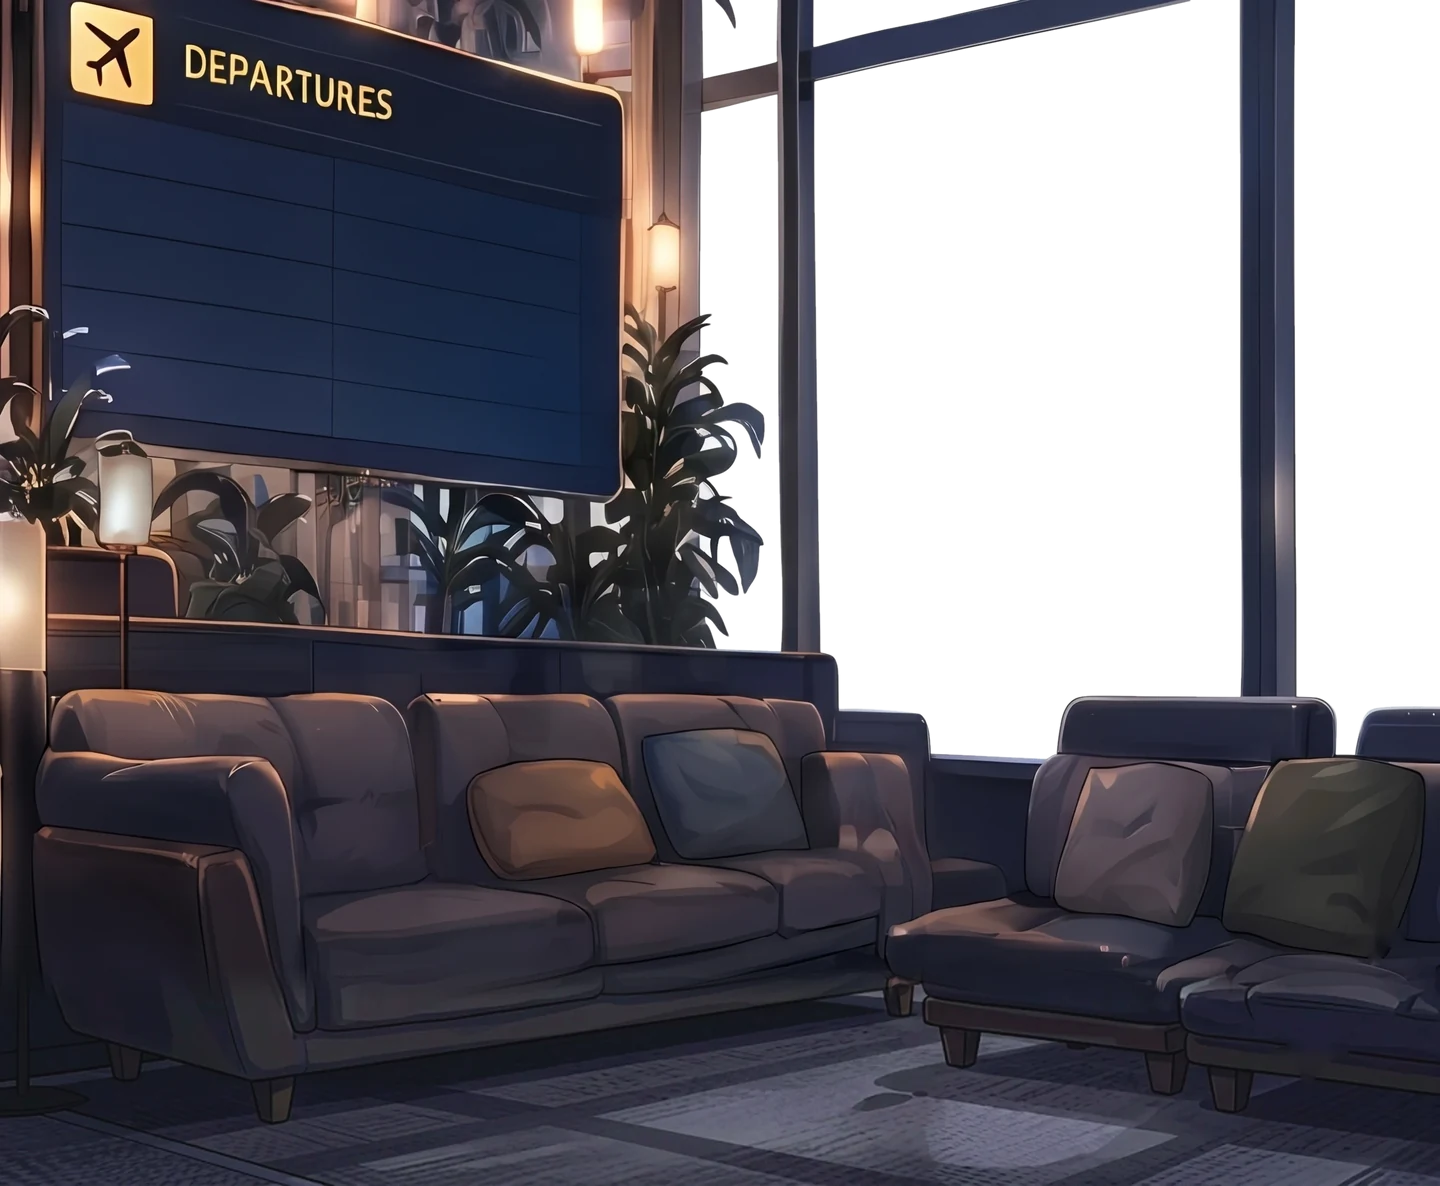
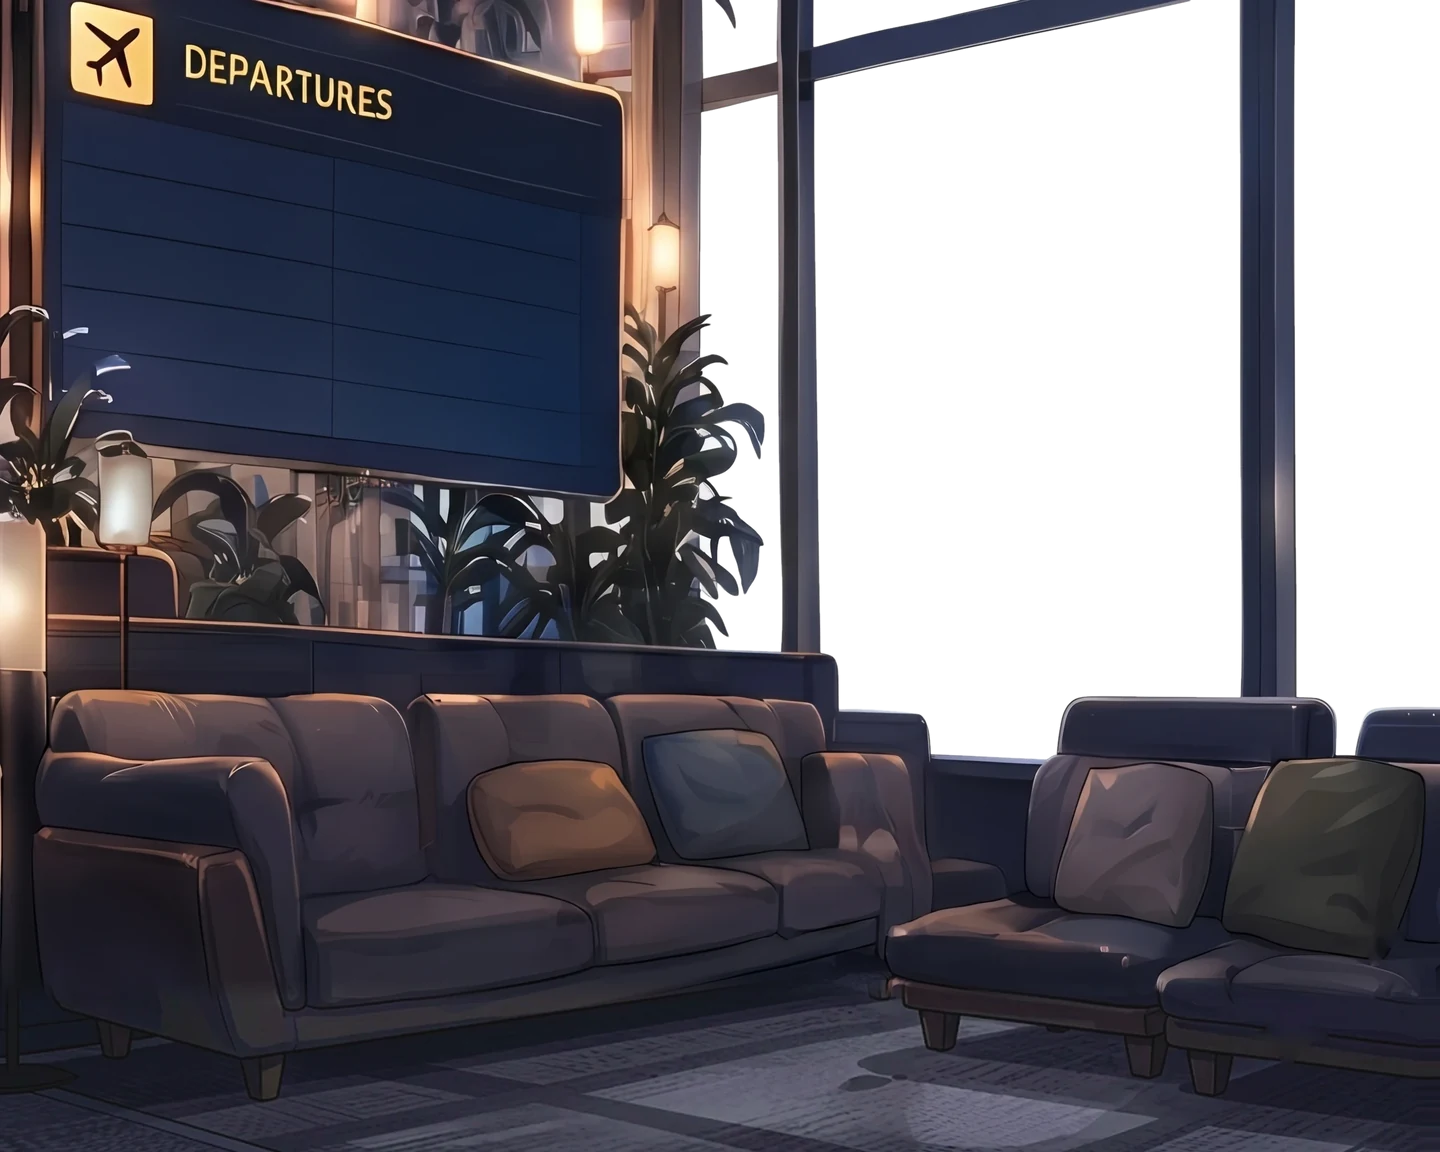
소파 아래 연장 다시: 긴 소파와 오른쪽 의자를 각각 통째로 맞춰 겹침·틈 제거, 카펫·소파 받침 선이 곧게
- 제미나이 그림은 오른쪽 의자가 더 아래·오른쪽에 그려져 있어 한 번에 붙이면 좌석 앞면이 두 겹으로 보이고 틈이 생겼음
- 원본 아래끝 선과 맞춰 긴 소파(18, 40px)와 의자(35, 30px)를 따로 옮기고, 둘 사이 바닥에서만 이어줌
- 세로줄마다 다르게 맞추면 선이 휘어서, 덩어리마다 한 값만 씀. 밤·노을·낮 세 장에 같은 값 적용
- 장면 높이 1152, 걷는 발 기준선 1118

Claude-Session: https://claude.ai/code/session_012VFbGgDXK9mz8qoLwWp9w1

diff --git a/ui/web/lobby.css b/ui/web/lobby.css
@@ -288,7 +288,7 @@ main{padding:0 12px calc(81px + env(safe-area-inset-bottom))}
 
 /* Lounge scene (docs/LOUNGE_SCENE_DESIGN.md). The canvas replaces the still illustration once its
    assets are ready; until then, and if anything fails, the still image shows. */
-.airport-scene{position:relative;width:calc(100% + 24px);margin:0 -12px 0;aspect-ratio:1440/1186;
+.airport-scene{position:relative;width:calc(100% + 24px);margin:0 -12px 0;aspect-ratio:1440/1152;
  overflow:hidden;background:var(--airport-surface-top,#112e39)}
 .lounge-fallback{position:absolute;inset:0;background:url("assets/t2-airport/lobby_hero_night.webp") center top/cover no-repeat}
 .lounge-canvas{position:absolute;inset:0;width:100%;height:100%;display:block;opacity:0;pointer-events:none}
@@ -312,7 +312,7 @@ main{padding:0 12px calc(81px + env(safe-area-inset-bottom))}
    (--lounge-floor, measured by lounge.js), picks up lamp or window light, and fades into the page.
    A faint woven texture keeps it from reading as a flat fill. */
 #lobby{
- --scene-bottom:calc(56px + min(100vw, 520px) * 1186 / 1440);
+ --scene-bottom:calc(56px + min(100vw, 520px) * 1152 / 1440);
  background:
   radial-gradient(70% 260px at 16% var(--scene-bottom), color-mix(in srgb, var(--lounge-glow) 26%, transparent), transparent 72%),
   radial-gradient(60% 300px at 92% calc(var(--scene-bottom) + 40px), color-mix(in srgb, var(--lounge-window) 22%, transparent), transparent 70%),

diff --git a/ui/web/lobby.html b/ui/web/lobby.html
@@ -6,7 +6,7 @@
 <meta name="theme-color" content="#0b1514">
 <title>t2 포커 · 토너먼트 로비</title>
 <link rel="icon" href="data:,">
-<link rel="stylesheet" href="lobby.css?v=20">
+<link rel="stylesheet" href="lobby.css?v=22">
 </head>
 <body>
 <div id="lobby">

diff --git a/art/tools/extend_floor.py b/art/tools/extend_floor.py
@@ -20,7 +20,48 @@ SRC = ART / 'sources/bg_floor_extension_gemini.webp'
 # Gemini px -> interior px: the same in both directions (width fills the picture, 2490 / 1024).
 # A smaller vertical scale doubled the right sofa's seat front.
 ANCHOR = 505        # Gemini row that meets the interior's bottom edge (where the seat fronts join the base)
-BLEND = 60
+BLEND = 40
+TPL = 90            # rows of the original's bottom matched against Gemini's picture
+STEP, WIN = 30, 180 # local alignment: one shift per 30 columns, matched on a 180-column window
+SEARCH_X, SEARCH_Y = 70, 50
+GAP, GAP_W = 1470, 140                       # floor between the long sofa and the chairs
+PIECES = [(0, 1420), (1520, 2490)]
+
+
+def local_shifts(o, gs, top):
+    """Per column: how far Gemini's floor must move so its sofa fronts line up with ours.
+    Gemini redrew the room a little differently (the right chairs sit lower and further right), so one
+    global placement doubles their seat fronts; this lines each part up where it meets the original."""
+    H, W = o.shape[:2]
+    def edges(a):
+        g = cv2.cvtColor(a.clip(0, 255).astype(np.uint8), cv2.COLOR_RGB2GRAY).astype(np.float32)
+        g = cv2.GaussianBlur(g, (3, 3), 0)
+        return np.hypot(cv2.Sobel(g, cv2.CV_32F, 1, 0), cv2.Sobel(g, cv2.CV_32F, 0, 1))
+    eo, eg = edges(o[H - TPL:H, :, :3]), edges(gs)
+    xs, dxs, dys, ok = [], [], [], []
+    for xc in range(WIN // 2, W - WIN // 2 + 1, STEP):
+        x0 = xc - WIN // 2
+        t = eo[:, x0:x0 + WIN]
+        gx0, gy0 = max(0, x0 - SEARCH_X), max(0, top - TPL - SEARCH_Y)
+        reg = eg[gy0:top + SEARCH_Y, gx0:min(W, x0 + WIN + SEARCH_X)]
+        r = cv2.matchTemplate(reg, t, cv2.TM_CCOEFF_NORMED)
+        _, mx, _, loc = cv2.minMaxLoc(r)
+        xs.append(xc); dxs.append(gx0 + loc[0] - x0); dys.append(gy0 + loc[1] - (top - TPL)); ok.append(mx)
+    xs, dxs, dys, ok = map(np.array, (xs, dxs, dys, ok))
+    # one rigid shift per piece of furniture (the long sofa, the chairs), so lines stay straight;
+    # they meet in the gap between the two, where there is only floor
+    dx, dy = np.zeros(W), np.zeros(W)
+    shifts = []
+    for lo, hi in PIECES:
+        sel = (xs >= lo) & (xs < hi) & (ok > 0.35)
+        if sel.sum() == 0: sel = (xs >= lo) & (xs < hi)
+        shifts.append((float(np.median(dxs[sel])), float(np.median(dys[sel]))))
+    x = np.arange(W)
+    t = np.clip((x - (GAP - GAP_W / 2)) / GAP_W, 0, 1); t = t * t * (3 - 2 * t)
+    dx = shifts[0][0] * (1 - t) + shifts[1][0] * t
+    dy = shifts[0][1] * (1 - t) + shifts[1][1] * t
+    print('  long sofa shift', shifts[0], ' chairs shift', shifts[1])
+    return dx, dy
 
 
 def lab(a):
@@ -34,7 +75,19 @@ def extend(variant):
     g = np.asarray(Image.open(SRC).convert('RGB')).astype(np.float32)
     scale = W / g.shape[1]
     gs = cv2.resize(g, (W, int(round(g.shape[0] * scale))), interpolation=cv2.INTER_CUBIC)
-    ext = gs[int(ANCHOR * scale) - BLEND:]
+    top = int(ANCHOR * scale)                    # Gemini row that meets our bottom edge, before alignment
+    dx, dy = SHIFT if SHIFT else local_shifts(o, gs, top)
+    rows = gs.shape[0] - top - 60 + BLEND        # same height for every lighting variant
+    yy, xx = np.mgrid[0:rows, 0:W].astype(np.float32)
+    # the alignment matters where the furniture meets ours; further down (open carpet) it fades to
+    # one even shift so the carpet's stripes stay straight
+    k = np.clip((yy - (BLEND + 170)) / 140.0, 0, 1); k = k * k * (3 - 2 * k)
+    dxk = dx[None] * (1 - k) + dx.mean() * k
+    dyk = dy[None] * (1 - k) + np.median(dy) * k
+    mapx = (xx + dxk).astype(np.float32)
+    mapy = (yy + (top - BLEND) + dyk).astype(np.float32)
+    ext = cv2.remap(gs, mapx, mapy, cv2.INTER_CUBIC, borderMode=cv2.BORDER_REPLICATE)
+    print('  shift x %.0f..%.0f  y %.0f..%.0f' % (dx.min(), dx.max(), dy.min(), dy.max()))
     ref, src = lab(o[H - 160:H, :, :3]), lab(ext[:160])
     e = lab(ext)
     for c in range(3):
@@ -51,6 +104,16 @@ def extend(variant):
     return W, out.shape[0]
 
 
+SHIFT = None
+
 if __name__ == '__main__':
+    # measure once, on the night picture (strongest lines), and use it for every variant so the
+    # three lighting layers stay aligned
+    SHIFT = None
+    o = np.asarray(Image.open(ART / 'lounge_bg/interior_night.webp').convert('RGB')).astype(np.float32)
+    g = np.asarray(Image.open(SRC).convert('RGB')).astype(np.float32)
+    sc = o.shape[1] / g.shape[1]
+    gs = cv2.resize(g, (o.shape[1], int(round(g.shape[0] * sc))), interpolation=cv2.INTER_CUBIC)
+    SHIFT = local_shifts(np.dstack([o, np.full(o.shape[:2], 255, np.float32)]), gs, int(ANCHOR * sc))
     for v in ('night', 'golden', 'day'):
         print(v, 'extended to %dx%d' % extend(v))

diff --git a/art/tools/build_lounge_scene.py b/art/tools/build_lounge_scene.py
@@ -20,7 +20,7 @@ from PIL import Image, ImageDraw, ImageFilter
 
 SRC = Path(__file__).resolve().parent.parent / 'lounge_bg'
 W, H0 = 1440, 1000                 # the original picture
-H = 1186                           # with the floor extension (2050 / 1728 * 1000)
+H = 1152                           # with the floor extension (1990 / 1728 * 1000)
 VARIANTS = [('night', -10), ('golden', 2), ('day', 14)]       # lighting stage -> sun elevation anchor
 
 # Everything in front of a seated character: armrests and the front of the seat cushions.
@@ -32,7 +32,7 @@ SOFA_FRONT = [
 SCENE = {
     'placeholder': False,
     'size': [W, H],
-    'baselineY': 1150,             # walkers pass on the carpet in front of the sofas
+    'baselineY': 1118,             # walkers pass on the carpet in front of the sofas
     'horizonY': 560,
     'windowFacing': 225,
     'charScale': 1.25,
